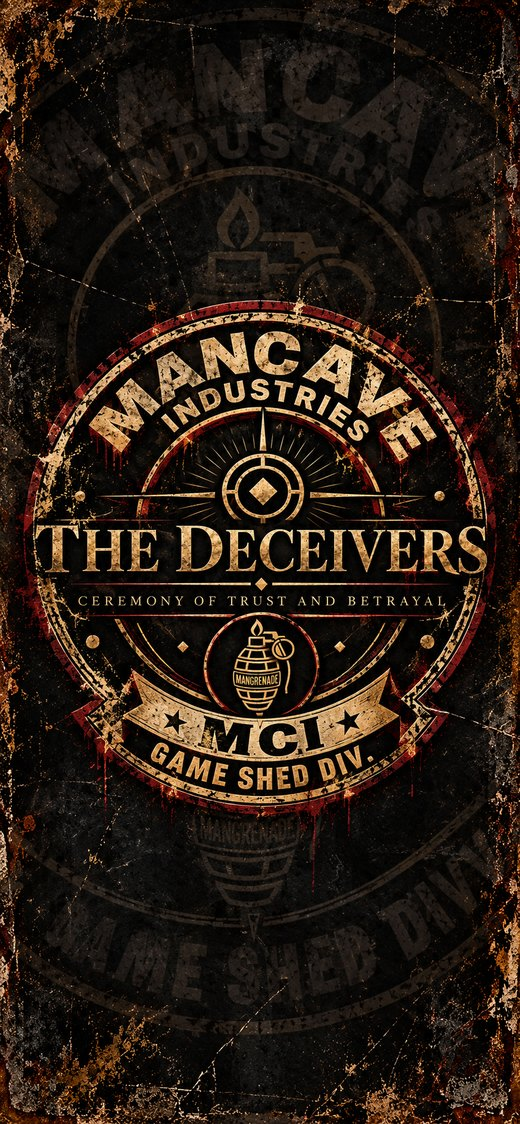
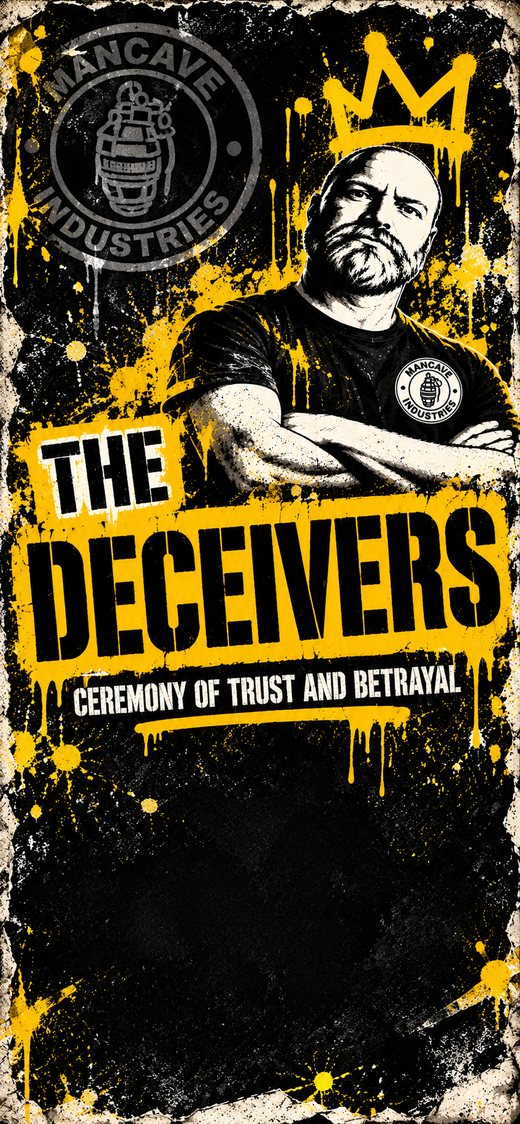
Ship the reskinned Title poster from the new ChatGPT batch
First on-brief art back: Mancaveman, crown, stamp, torn-paper/drip
texture, correct yellow/black. Version-stamped the background-image
url so a future swap can't get stuck in a stale phone cache the way
the JS did earlier.

Claude-Session: https://claude.ai/code/session_01BXSktdT9oqibg7MgqrPYMx

diff --git a/css/style.css b/css/style.css
@@ -425,7 +425,7 @@ body {
    with no extra markup. The lockup (title, tagline, brand) lives in the
    image's upper two-thirds; the buttons sit in its emptier lower third. */
 #screen-title {
-  background-image: url('../assets/brand/deceivers-title-poster.jpg');
+  background-image: url('../assets/brand/deceivers-title-poster.jpg?v=202610071539');
   background-size: contain;
   background-repeat: no-repeat;
   background-position: center;

diff --git a/index.html b/index.html
@@ -21,7 +21,7 @@
      css/style.css or any js/*.js file, so returning
      players' phones are forced to re-fetch instead of silently running
      stale game logic. Harmless no-op on a brand new load either way. -->
-<link rel="stylesheet" href="css/style.css?v=202610070912">
+<link rel="stylesheet" href="css/style.css?v=202610071539">
 </head>
 <body>
 <div class="app" id="app">
